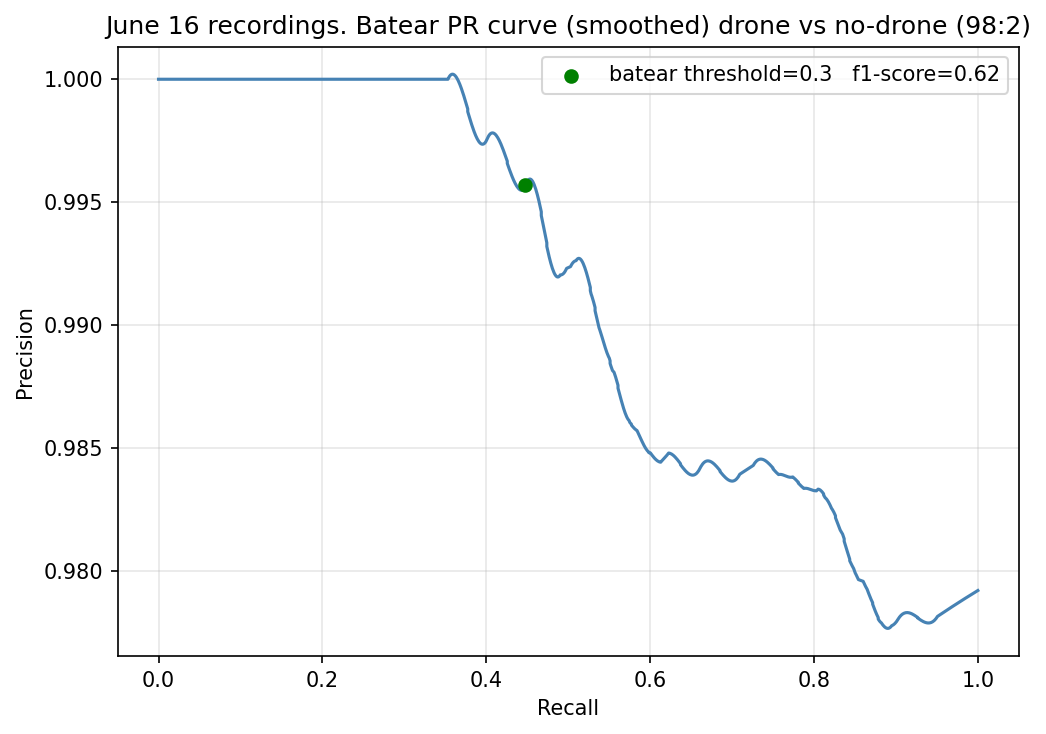
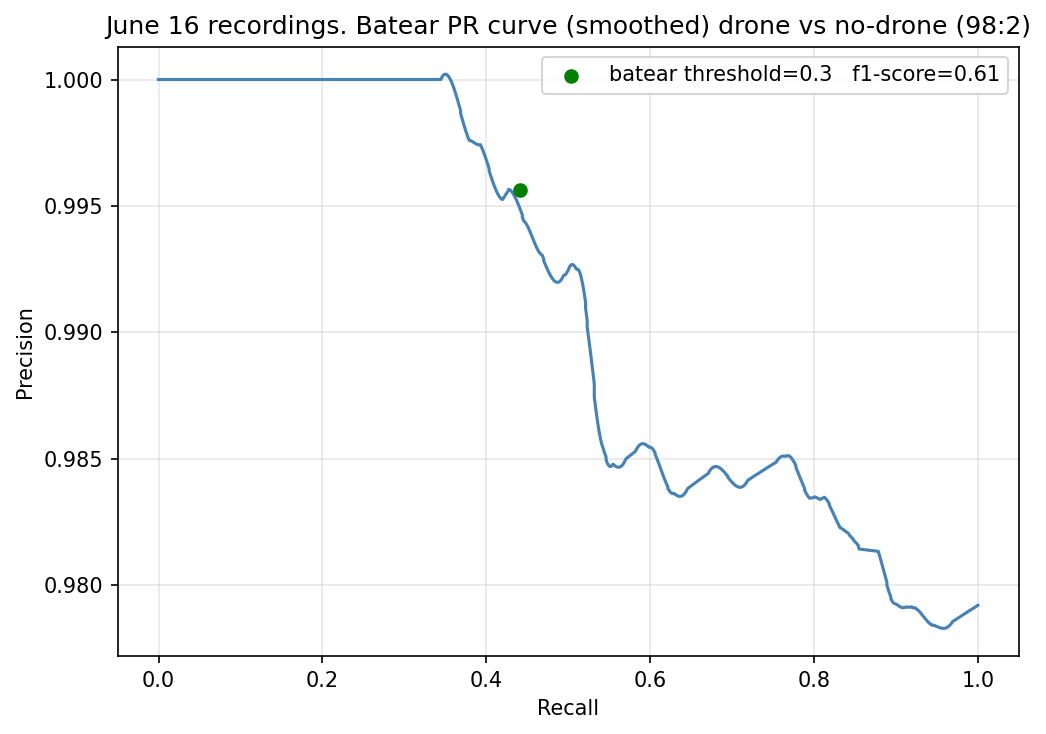
restore original batear parameters

diff --git a/batear_detection.py b/batear_detection.py
@@ -24,8 +24,8 @@ CLEAR_FRAMES      = 8       # consecutive negatives to clear alarm
 RMS_MIN           = 0.0004  # minimum RMS to process frame
 
 HARM_PEAK_MIN_SNR = 4.0    # minimum SNR for fundamental
-HARM_MIN_H2       = 0.035 #0.07   # minimum h2/fundamental ratio
-HARM_MIN_H3       = 0.0175 #0.035  # minimum h3/fundamental ratio
+HARM_MIN_H2       = 0.07   # minimum h2/fundamental ratio
+HARM_MIN_H3       = 0.035  # minimum h3/fundamental ratio
 HARM_BIN_TOL      = 2      # ±bins tolerance for harmonic search
 
 # for plotting results

diff --git a/README.md b/README.md
@@ -61,7 +61,7 @@ To view an interactive version with playable audio, open the notebooks on nbview
 
 ## Classification
 
-The batear algorithm is used as a benchmark [2].  The PR curve displays an unbalanced dataset.  The f1-score of 0.62 at the operational threshold 0.3 reflects missed detections. Pending addition of non-drone recordings with target hardware.
+Batear algorithm is used as benchmark [2].  PR curve displays an unbalanced dataset.  f1-score of 0.61 at the operational threshold 0.3 reflects missed detections. Pending addition of non-drone recordings with target hardware.
 
 <img src="images/batear_jun16_pr_curve.png" width="49%">
 
